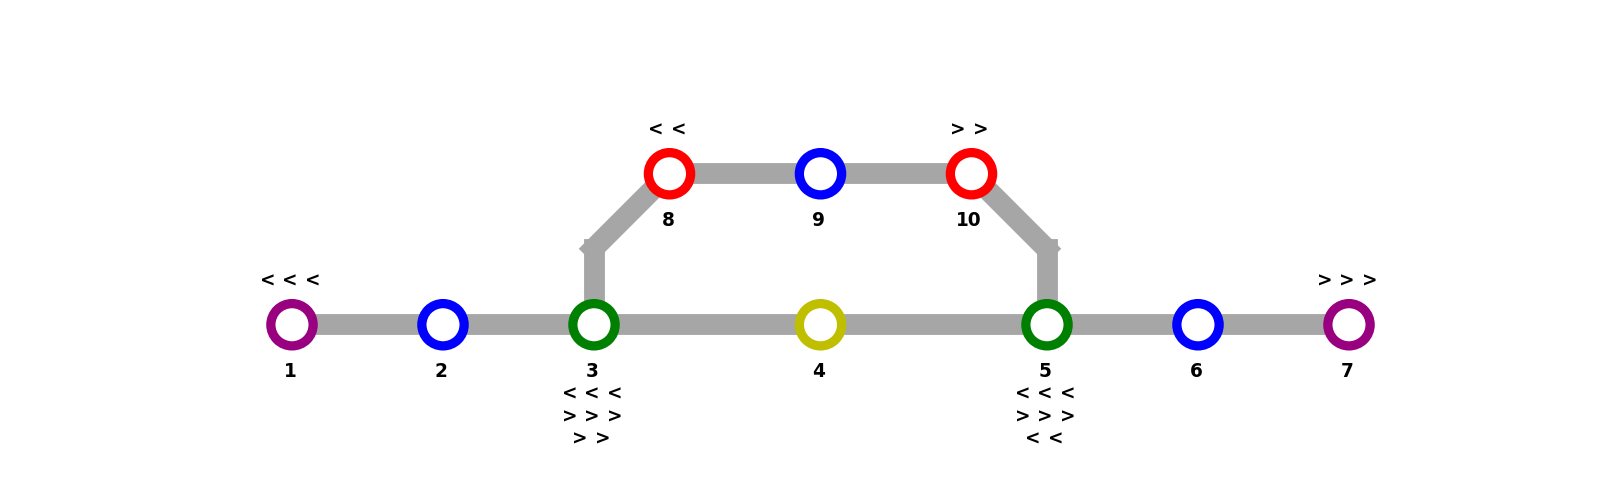
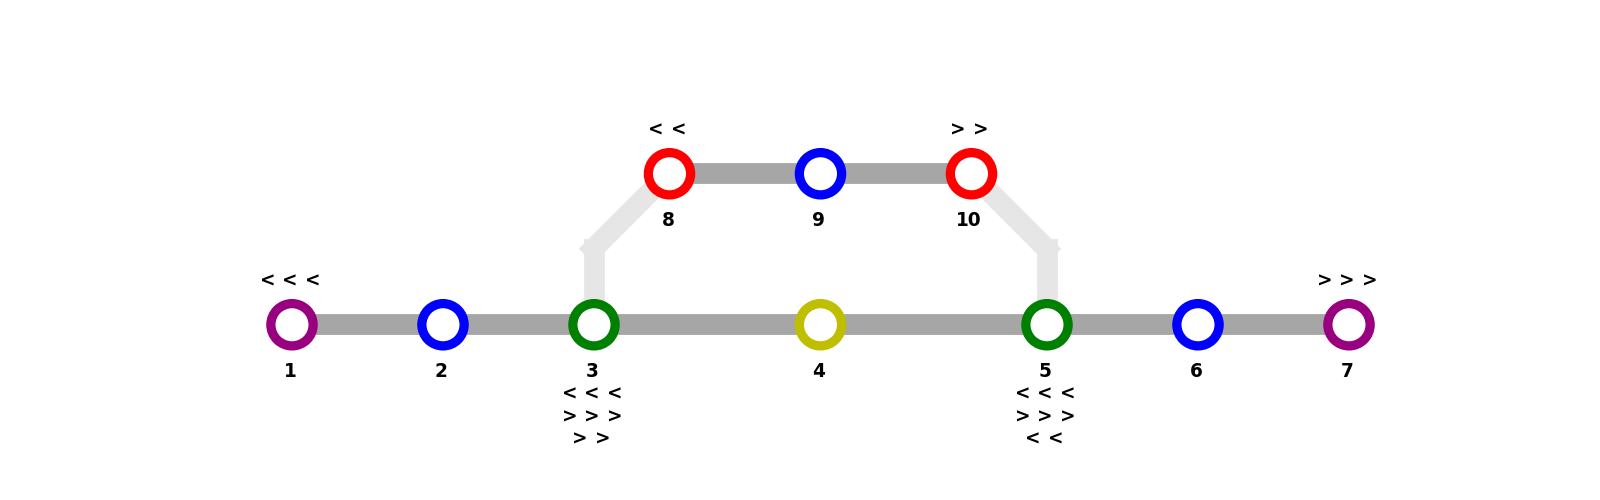
Cambios visibles

Changed region(s): [[0.5938, 0.36, 0.6875, 0.6], [0.3438, 0.36, 0.4062, 0.6]]

diff --git a/Mapa/Plotear.py b/Mapa/Plotear.py
@@ -95,36 +95,55 @@ def conectar_secciones(secciones):
             # Evitar repetidos             
             if ( a < b ):
                 continue;
+             
+            #print("O {} {}".format(a+1,b+1))
+            
+            color = grey1
+            tipo_a = secciones[a].tipo
+            tipo_b = secciones[b].tipo
+            
+            if ( tipo_a == "Cruce"):
+                if ( tipo_b == "Directo"):  
+                    print("C-Di {} {}".format(a+1,b+1))
+                    if secciones[a].cambio_estado == True:
+                        color = grey2
+                if ( tipo_b == "Desvio"):  
+                    print("C-De {} {}".format(a+1,b+1))
+                    if secciones[a].cambio_estado == False:
+                        color = grey2
                 
-            if ( secciones[a].tipo == "Cruce" and
-                 secciones[b].tipo == "Cruce" ):
+            if ( tipo_b == "Cruce"):
+                if ( tipo_a == "Directo"):    
+                    print("Di-C {} {}".format(a+1,b+1))
+                    if secciones[b].cambio_estado == True:
+                        color = grey2  
+                if ( tipo_a == "Desvio"): 
+                    print("De-C {} {}".format(a+1,b+1))
+                    if secciones[b].cambio_estado == False:
+                        color = grey2
+
+#            if ( tipo_a == "Desvio"):
+#                if ( tipo_b == "Directo"):  
+#                    print("De-Di {} {}".format(a+1,b+1))
+#                    if secciones[a].cambio_estado == True:
+#                        color = red
+#                if ( tipo_b == "Desvio"):  
+#                    print("De-De {} {}".format(a+1,b+1))
+#                    if secciones[a].cambio_estado == False:
+#                        color = red
                 
-                if secciones[a].cambio_estado == True:
-                    color = grey2
-            else:
-                color = grey1
-        
-            if ( secciones[b].tipo == "Cruce" and len(secciones[b].vecinos) == 3 ):
-                if ( secciones[b].desvio_sup != "" ):              
-                    if ( secciones[b].desvio_sup_dir == '>'):
-                        if ( secciones[b].posterior == secciones[a].id ):
-                            if secciones[b].cambio_estado == False:
-                                color = grey2
-                    else:
-                        if ( secciones[b].anterior == secciones[a].id ):
-                            if secciones[b].cambio_estado == False:
-                                color = grey2
-                    
-            if ( secciones[a].tipo == "Cruce" and len(secciones[a].vecinos) == 3 ):
-                if ( secciones[a].desvio_sup != "" ):              
-                    if ( secciones[a].desvio_sup_dir == '>'):
-                        if ( secciones[a].posterior == secciones[b].id ):
-                            if secciones[a].cambio_estado == False:
-                                color = grey2
-                    else:
-                        if ( secciones[a].anterior == secciones[b].id ):
-                            if secciones[a].cambio_estado == False:
-                                color = grey2         
+            if ( tipo_b == "Desvio"):
+                if ( tipo_a == "Directo"):    
+                    print("Di-De {} {}".format(a+1,b+1))
+                    if secciones[b].cambio_estado == True:
+                        color = grey2  
+                if ( tipo_a == "Desvio"): 
+                    print("De-De {} {}".format(a+1,b+1))
+                    if secciones[b].cambio_estado == False:
+                        color = grey2           
+                        
+
+
             
             create_line(secciones[a].pos_x, secciones[a].pos_y,
                         secciones[b].pos_x, secciones[b].pos_y,

diff --git a/Mapa/comunicacion.py b/Mapa/comunicacion.py
@@ -45,6 +45,19 @@ def signal_handler(sig, frame):
     
 # Funciones -------------------------------------------------------------------
 #%%
+def buscar_mdc(index,secciones):
+
+    for i in range(len(secciones)):
+        if secciones[i].cambio:
+            index = index - 1
+            
+        if index == 0:
+            return i+1
+
+
+    
+    
+#%%    
 def calcular_sem_owner(secciones,i):
 
     acumulado = secciones[0].N_semaforos
@@ -259,7 +272,7 @@ def cmd_3(secciones):
    #sendData( '(',')',False )
    return
 
-# comando 4: Todo OK
+# comando 4: modificar cambios de via
 def cmd_4(secciones,conexiones):
    N_mdc = objetos[3]
 
@@ -275,8 +288,12 @@ def cmd_4(secciones,conexiones):
        index = int(comando)
        if mdc_t[index-1] == '1':
            mdc_t = mdc_t[:index-1] + '0' + mdc_t[index:]
+           nodo = buscar_mdc(index,secciones)
+           secciones[nodo-1].cambio_estado = False
        else:
            mdc_t = mdc_t[:index-1] + '1' + mdc_t[index:]
+           nodo = buscar_mdc(index,secciones)
+           secciones[nodo-1].cambio_estado = True
            
    sendData( cvs_t + sem_t + pan_t + mdc_t , secciones,conexiones )  
    return

diff --git a/Mapa/Mapa.py b/Mapa/Mapa.py
@@ -669,6 +669,10 @@ def generar_mapa(tabla, iniciar = True):
         asignar_semaforos()
         #imprimir_estados()       
         
+        secciones[3-1].cambio_estado = False
+        secciones[5-1].cambio_estado = False
+        #secciones[9-1].cambio_estado = True
+        
         mostrar_grafo(secciones,i,gif_mode = False)       
         #proximo_semaforo(secciones)    
         detectar_rutas(secciones)        
